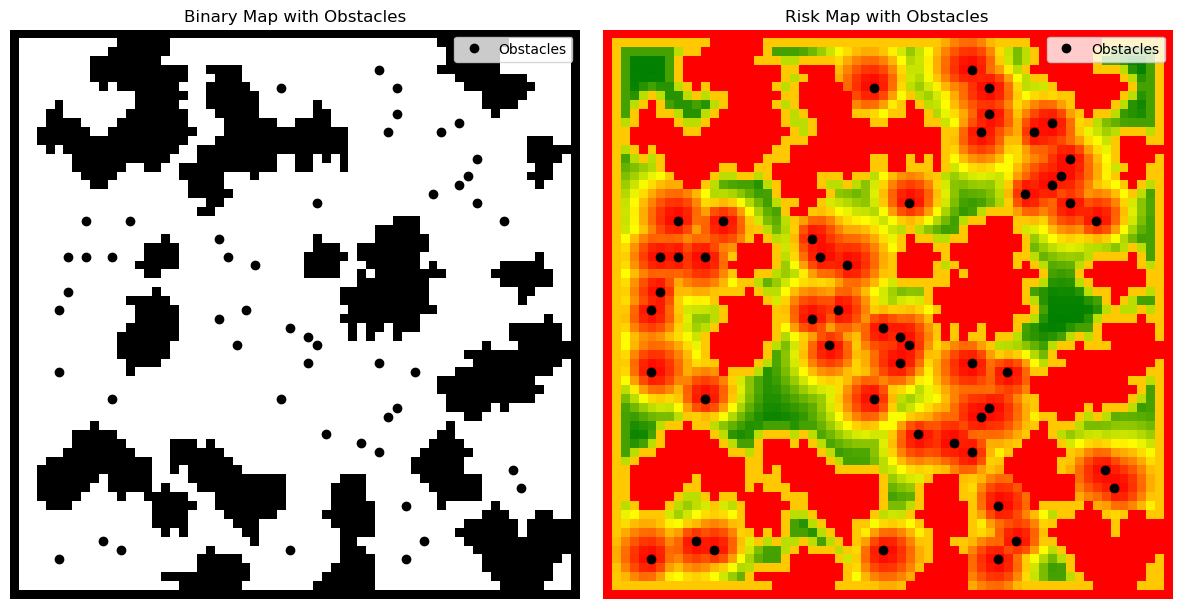
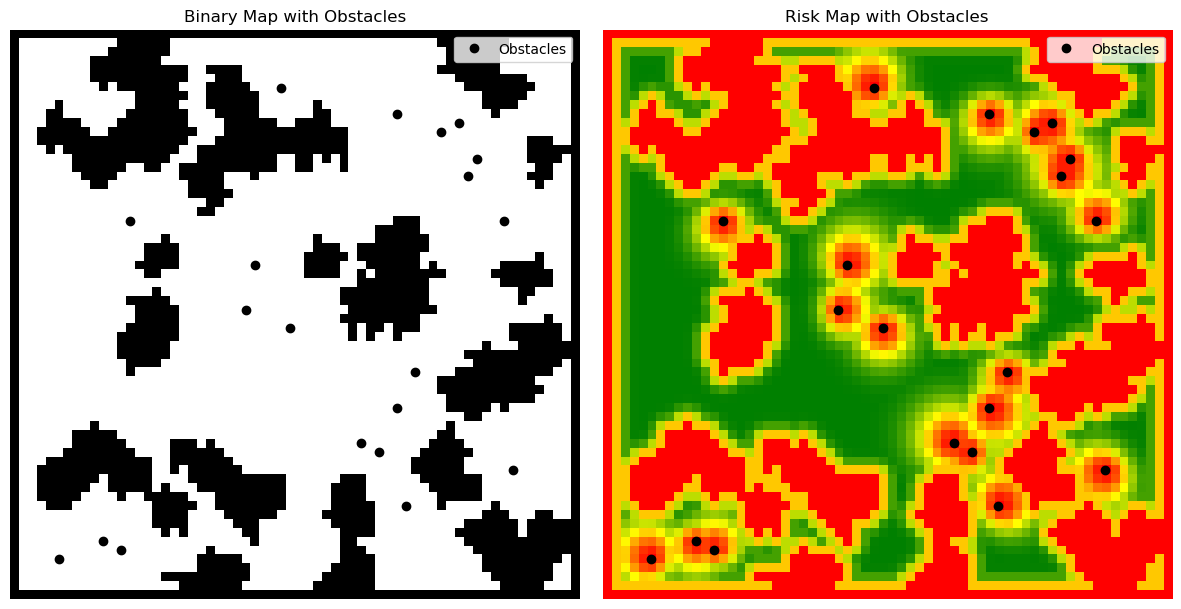
correct values for demo.py

diff --git a/examples/demo.py b/examples/demo.py
@@ -56,9 +56,9 @@ print("Static map analysis plot saved.")
 plt.close()
 
 # --- 2. Settings & Initializations ---
-PERC_OPEN_CELLS = 0.05
+PERC_OPEN_CELLS = 0.02
 TOTAL_STEPS = 50
-SIGMA_DYNAMIC = 1.5
+SIGMA_DYNAMIC = 1.0
 ALPHA_DYNAMIC = 0.3
 DYNAMIC_SPEED = 1.0
 